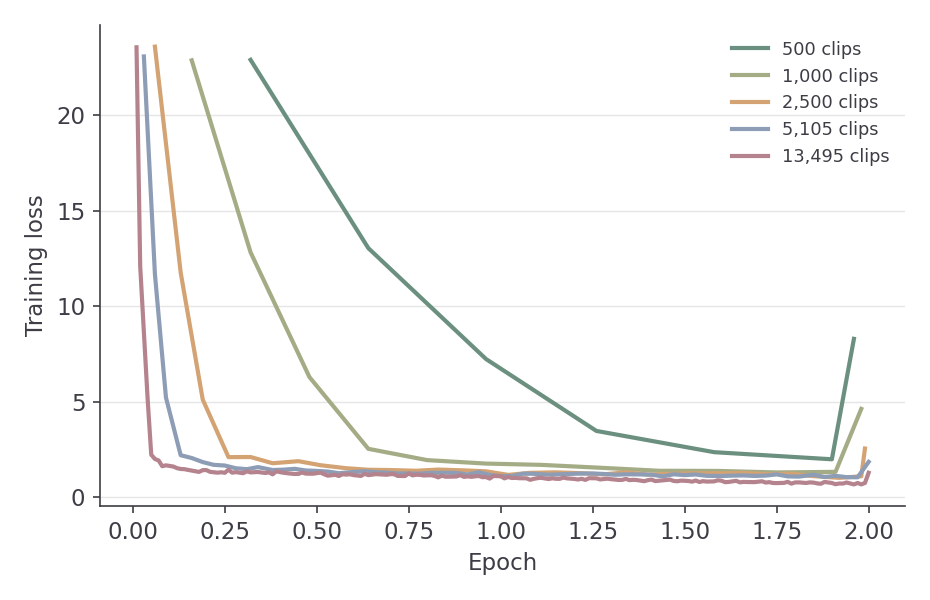
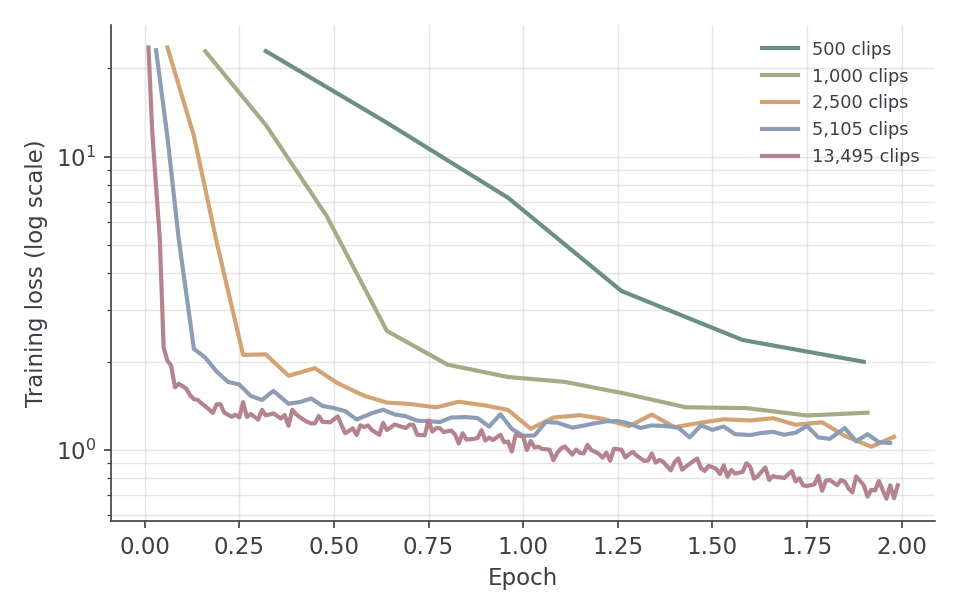
fix: loss extraction excludes train_loss spike; log-y loss curve

diff --git a/scripts/analysis/plot_datasize_sweep.py b/scripts/analysis/plot_datasize_sweep.py
@@ -1,62 +1,63 @@
-"""Three thesis figures for the temporal SFT data-size sweep (relaxed palette)."""
-import csv, json
+"""Data-size sweep figures (relaxed palette). Re-extracts loss series fresh
+(excluding the train_loss summary point) and reads the reconciled metrics.csv."""
+import csv, re, glob
 from pathlib import Path
 import matplotlib
 matplotlib.use("Agg")
 import matplotlib.pyplot as plt
 
-SAGE = "#6b9080"; CLAY = "#d4a373"; INK = "#3d3d46"; GRID = "#c2c2c2"
-LINE5 = ["#6b9080", "#a4ac86", "#d4a373", "#8d9db6", "#b5838d"]
+SAGE="#6b9080"; CLAY="#d4a373"; INK="#3d3d46"; GRID="#c2c2c2"
+LINE5=["#6b9080","#a4ac86","#d4a373","#8d9db6","#b5838d"]
 plt.rcParams.update({"font.size":11,"axes.edgecolor":INK,"axes.labelcolor":INK,
     "xtick.color":INK,"ytick.color":INK,"text.color":INK,"axes.titlesize":12.5,
     "figure.dpi":150,"font.family":"DejaVu Sans"})
+base=Path("/work3/s234817/automatic-speech-assessment")
+ad=base/"results/analysis/datasize_sweep"; out=ad/"figures"; out.mkdir(exist_ok=True)
+rows=list(csv.DictReader(open(ad/"metrics.csv")))
+sizes=[int(r["size"]) for r in rows]; iou=[float(r["iou_mean"]) for r in rows]
+mse=[float(r["mos_mse"]) for r in rows]; labels=[f"{s:,}" for s in sizes]; AB=0.22
 
-base = Path("/work3/s234817/automatic-speech-assessment/results/analysis/datasize_sweep")
-out = base/"figures"; out.mkdir(exist_ok=True)
-rows = list(csv.DictReader(open(base/"metrics.csv")))
-sizes=[int(r["size"]) for r in rows]; iou=[float(r["iou_mean"]) for r in rows]; mse=[float(r["mos_mse"]) for r in rows]
-labels=[f"{s:,}" for s in sizes]; AUDIO_BLIND=0.22
+# fresh loss extraction, excluding the train_loss summary line (the end spike)
+LOGS={500:"sft_gc_sweep500_*.out",1000:"sft_gc_sweep1000_*.out",2500:"sft_gc_sweep2500_*.out",
+      5105:"sft_gc_sweep5105_*.out",13495:"sft_gc_full13495_*.out"}
+RX=re.compile(r"(?<![A-Za-z_])loss.:\s*([0-9.]+),.*?epoch.:\s*([0-9.]+)")
+losses={}
+for sz,pat in LOGS.items():
+    f=glob.glob(str(base/"logs"/pat)); ser=[]
+    if f:
+        txt=open(f[0]).read().replace("\r","\n")
+        ser=[(float(m.group(2)),float(m.group(1))) for m in RX.finditer(txt)]
+    losses[sz]=ser
 
-# Fig 1: IoU curve
-fig,ax=plt.subplots(figsize=(6.2,4))
-ax.plot(sizes,iou,"o-",color=SAGE,lw=2.2,ms=8,mfc="white",mec=SAGE,mew=2)
-ax.axhline(AUDIO_BLIND,ls=(0,(4,3)),color=GRID,lw=1.3)
-ax.text(0.015,0.30,"audio-blind floor (0.22)",transform=ax.transAxes,color="#8a8a8a",fontsize=8.5)
-ax.set_xscale("log"); ax.set_xticks(sizes); ax.set_xticklabels(labels)
-ax.set_xlabel("Training clips"); ax.set_ylabel(r"Mean temporal IoU $\uparrow$")
-ax.set_ylim(0,1); ax.spines[["top","right"]].set_visible(False); ax.grid(axis="y",color=GRID,alpha=0.4,lw=0.7)
-fig.tight_layout(); fig.savefig(out/"datasize_iou_curve.png"); plt.close(fig)
-
-# Fig 2: loss curves
-losses=json.load(open(base/"loss_series.json"))
-fig,ax=plt.subplots(figsize=(6.2,4))
-for i,k in enumerate(sorted(losses,key=lambda k:int(k))):
-    s=losses[k]
-    if s: ax.plot([p[0] for p in s],[p[1] for p in s],color=LINE5[i%len(LINE5)],lw=2,label=f"{int(k):,} clips")
-ax.set_xlabel("Epoch"); ax.set_ylabel("Training loss")
-ax.legend(fontsize=8.5,frameon=False); ax.spines[["top","right"]].set_visible(False); ax.grid(axis="y",color=GRID,alpha=0.4,lw=0.7)
+# Fig: loss curves, log-y
+fig,ax=plt.subplots(figsize=(6.4,4.1))
+for i,sz in enumerate(sorted(losses)):
+    s=losses[sz]
+    if s: ax.plot([p[0] for p in s],[p[1] for p in s],color=LINE5[i%len(LINE5)],lw=2,label=f"{sz:,} clips")
+ax.set_yscale("log")
+ax.set_xlabel("Epoch"); ax.set_ylabel("Training loss (log scale)")
+ax.legend(fontsize=8.5,frameon=False); ax.spines[["top","right"]].set_visible(False)
+ax.grid(axis="both",which="both",color=GRID,alpha=0.4,lw=0.7)
 fig.tight_layout(); fig.savefig(out/"datasize_loss_curves.png"); plt.close(fig)
 
-# Fig 4.4: grouped bars, dual axis, arrows on axes, audio-blind label top-left
+# Fig 4.x: grouped bars dual axis with arrows
 fig,ax1=plt.subplots(figsize=(7.8,4.7)); ax2=ax1.twinx()
 x=list(range(len(sizes))); w=0.38; xl=[i-w/2 for i in x]; xr=[i+w/2 for i in x]
 b1=ax1.bar(xl,iou,w,color=SAGE,label="Mean IoU (localization)",zorder=3)
 b2=ax2.bar(xr,mse,w,color=CLAY,label="MOS MSE (rating)",zorder=3)
-ax1.axhline(AUDIO_BLIND,ls=(0,(4,3)),color="#9a9a9a",lw=1.2,zorder=2)
+ax1.axhline(AB,ls=(0,(4,3)),color="#9a9a9a",lw=1.2,zorder=2)
 ax1.text(0.015,0.93,"dashed: audio-blind IoU floor (0.22)",transform=ax1.transAxes,color="#8a8a8a",fontsize=8.2)
 for xx,v in zip(xl,iou): ax1.text(xx,v+0.012,f"{v:.2f}",ha="center",va="bottom",fontsize=8.5,color="#4a6b5d")
 for xx,v in zip(xr,mse): ax2.text(xx,v+0.006,f"{v:.2f}",ha="center",va="bottom",fontsize=8.5,color="#a9774a")
-ax1.set_ylabel(r"Mean temporal IoU  $\uparrow$",color=SAGE)
-ax2.set_ylabel(r"MOS MSE  $\downarrow$",color=CLAY)
+ax1.set_ylabel(r"Mean temporal IoU  $\uparrow$",color=SAGE); ax2.set_ylabel(r"MOS MSE  $\downarrow$",color=CLAY)
 ax1.tick_params(axis="y",colors=SAGE); ax2.tick_params(axis="y",colors=CLAY)
 ax1.set_ylim(0,1.0); ax2.set_ylim(0,max(mse)*1.6)
 ax1.set_xticks(x); ax1.set_xticklabels(labels); ax1.set_xlabel("Training clips")
 ax1.set_title("Localization vs. rating across training-set size")
 ax1.spines["top"].set_visible(False); ax2.spines["top"].set_visible(False)
 ax1.grid(axis="y",color=GRID,alpha=0.35,lw=0.7,zorder=0)
-# big directional arrows just outside each axis
 ax1.annotate("",xy=(-0.105,0.80),xytext=(-0.105,0.45),xycoords="axes fraction",arrowprops=dict(arrowstyle="-|>",color=SAGE,lw=2.4))
 ax2.annotate("",xy=(1.105,0.45),xytext=(1.105,0.80),xycoords="axes fraction",arrowprops=dict(arrowstyle="-|>",color=CLAY,lw=2.4))
 ax1.legend([b1,b2],[h.get_label() for h in [b1,b2]],frameon=False,fontsize=9,loc="upper center",bbox_to_anchor=(0.5,-0.13),ncol=2)
 fig.tight_layout(); fig.savefig(out/"datasize_iou_mse_bars.png",bbox_inches="tight"); plt.close(fig)
-print("done")
+print("loss points per size:", {k:len(v) for k,v in losses.items()})
